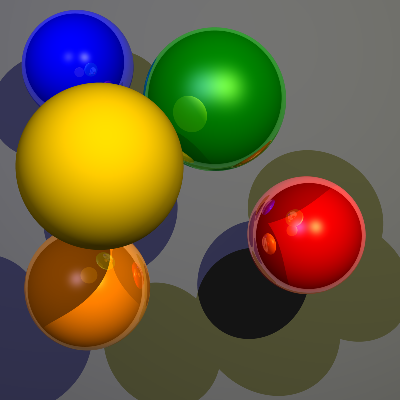
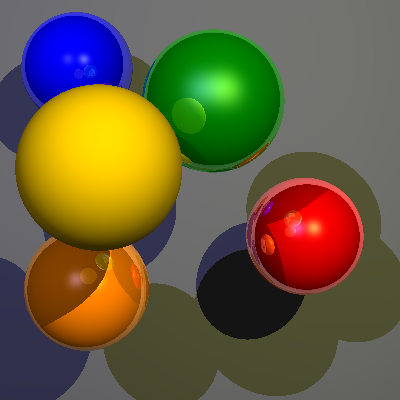
finish merge + parameters for softShadows

diff --git a/raytracerframework_cpp/raytracer.cpp b/raytracerframework_cpp/raytracer.cpp
@@ -170,9 +170,18 @@ Light* Raytracer::parseLight(const YAML::Node& node)
 {
     Point position;
     node["position"] >> position;
+    Triple size;
+    try
+    {
+        node["size"] >> size;
+    }
+    catch(std::exception e)
+    {
+        size = Triple(0.0,0.0,0.0);
+    }
     Color color;
     node["color"] >> color;
-    return new Light(position,color);
+    return new Light(position,size,color);
 }
 
 int Raytracer::parseSSfactor(const YAML::Node& node)
@@ -212,11 +221,6 @@ bool Raytracer::readScene(const std::string& inputFilename)
 				scene->setHasCamera(false);
 				scene->setEye(parseTriple(doc["Eye"]));
 			}
-			scene->setShadows(parseShadows(doc["Shadows"]));
-            scene->setEye(parseTriple(doc["Eye"]));
-			scene->setRenderMode(parseRenderMode(doc["RenderMode"]));
-			scene->setMaxRecursionDepth(parseMaxRecursionDepth(doc["MaxRecursionDepth"]));
-            scene->setSuperSamplingFactor(parseSSfactor(doc["SuperSampling"]));
 
 			try { 
 				scene->setShadows(parseShadows(doc["Shadows"])); 
@@ -242,6 +246,24 @@ bool Raytracer::readScene(const std::string& inputFilename)
 			catch (std::exception e) {
 				scene->setMaxRecursionDepth(0);
 			}
+
+            try
+            {
+                scene->setSuperSamplingFactor(parseSSfactor(doc["SuperSampling"]));
+            }
+            catch(std::exception e)
+            {
+                scene->setSuperSamplingFactor(1);
+            }
+
+            try
+            {
+                scene->setLightSampling(doc["lightsSamples"]);
+            }
+            catch(std::exception e)
+            {
+                scene->setLightSampling(1);
+            }
 
             // Read and parse the scene objects
             const YAML::Node& sceneObjects = doc["Objects"];

diff --git a/raytracerframework_cpp/scene.cpp b/raytracerframework_cpp/scene.cpp
@@ -114,6 +114,7 @@ Color Scene::trace(const Ray &ray, float minRange, float maxRange, int currentRe
 
 		for (auto light : lights)
 		{
+			
 			Vector L = light->position - hit;
 			L.normalize();
 
@@ -211,17 +212,9 @@ void Scene::render(Image &img)
         nearPoint -= 50;
     }
 
-    for (int y = 0; y < h; y++) {
-        for (int x = 0; x < w; x++) {
-            Point pixel(x+0.5, h-1-y+0.5, 0);
-			Ray ray = hasCamera ? camera->rayAt(pixel) : Ray(eye, (pixel - eye).normalized()) ;
-            Color col = trace(ray, farPoint, nearPoint,0);
-            col.clamp();
-            img(x,y) = col;
-
 	float offsetX = 0.5/superSamplingFactor;
 	float offsetY = 0.5/superSamplingFactor;
-	
+
 	#pragma omp parallel for
     for (int y = 0; y < h; y++) 
 	{
@@ -234,7 +227,7 @@ void Scene::render(Image &img)
 				for(int xx = 1; xx<=superSamplingFactor;xx++)
 				{
             		Point pixel(x+(offsetX*xx), h-1-y+(offsetY*yy), 0);
-            		Ray ray(eye, (pixel-eye).normalized());
+					Ray ray = hasCamera ? camera->rayAt(pixel) : Ray(eye, (pixel - eye).normalized()) ;
             		Color col = trace(ray, farPoint, nearPoint,0);
             		col.clamp();
             		sumColor += col;
@@ -316,4 +309,9 @@ int Scene::getHeight()
 void Scene::setSuperSamplingFactor(int f)
 {
 	superSamplingFactor = f;
+}
+
+void Scene::setLightSampling(int s)
+{
+	lightSampling = s;
 }

diff --git a/raytracerframework_cpp/scene.h b/raytracerframework_cpp/scene.h
@@ -46,6 +46,8 @@ private:
 
 	int maxRecursionDepth;
     int superSamplingFactor;
+
+    int lightSampling;
 	
     std::vector<Object*> objects;
     std::vector<Light*> lights;
@@ -68,6 +70,7 @@ public:
 	void setHasCamera(bool b);
     void setSuperSamplingFactor(int f);
 	void setMaxRecursionDepth(int i);
+    void setLightSampling(int s);
 
 	int getWidth();
 	int getHeight();

diff --git a/raytracerframework_cpp/light.h b/raytracerframework_cpp/light.h
@@ -29,10 +29,11 @@
 class Light
 {
 public:
-    Light(Point pos,Color c) : position(pos), color(c)
+    Light(Point pos,Triple s,Color c) : position(pos), size(s),color(c)
     { }
 
     Point position;
+    Triple size;
     Color color;
 };
 
